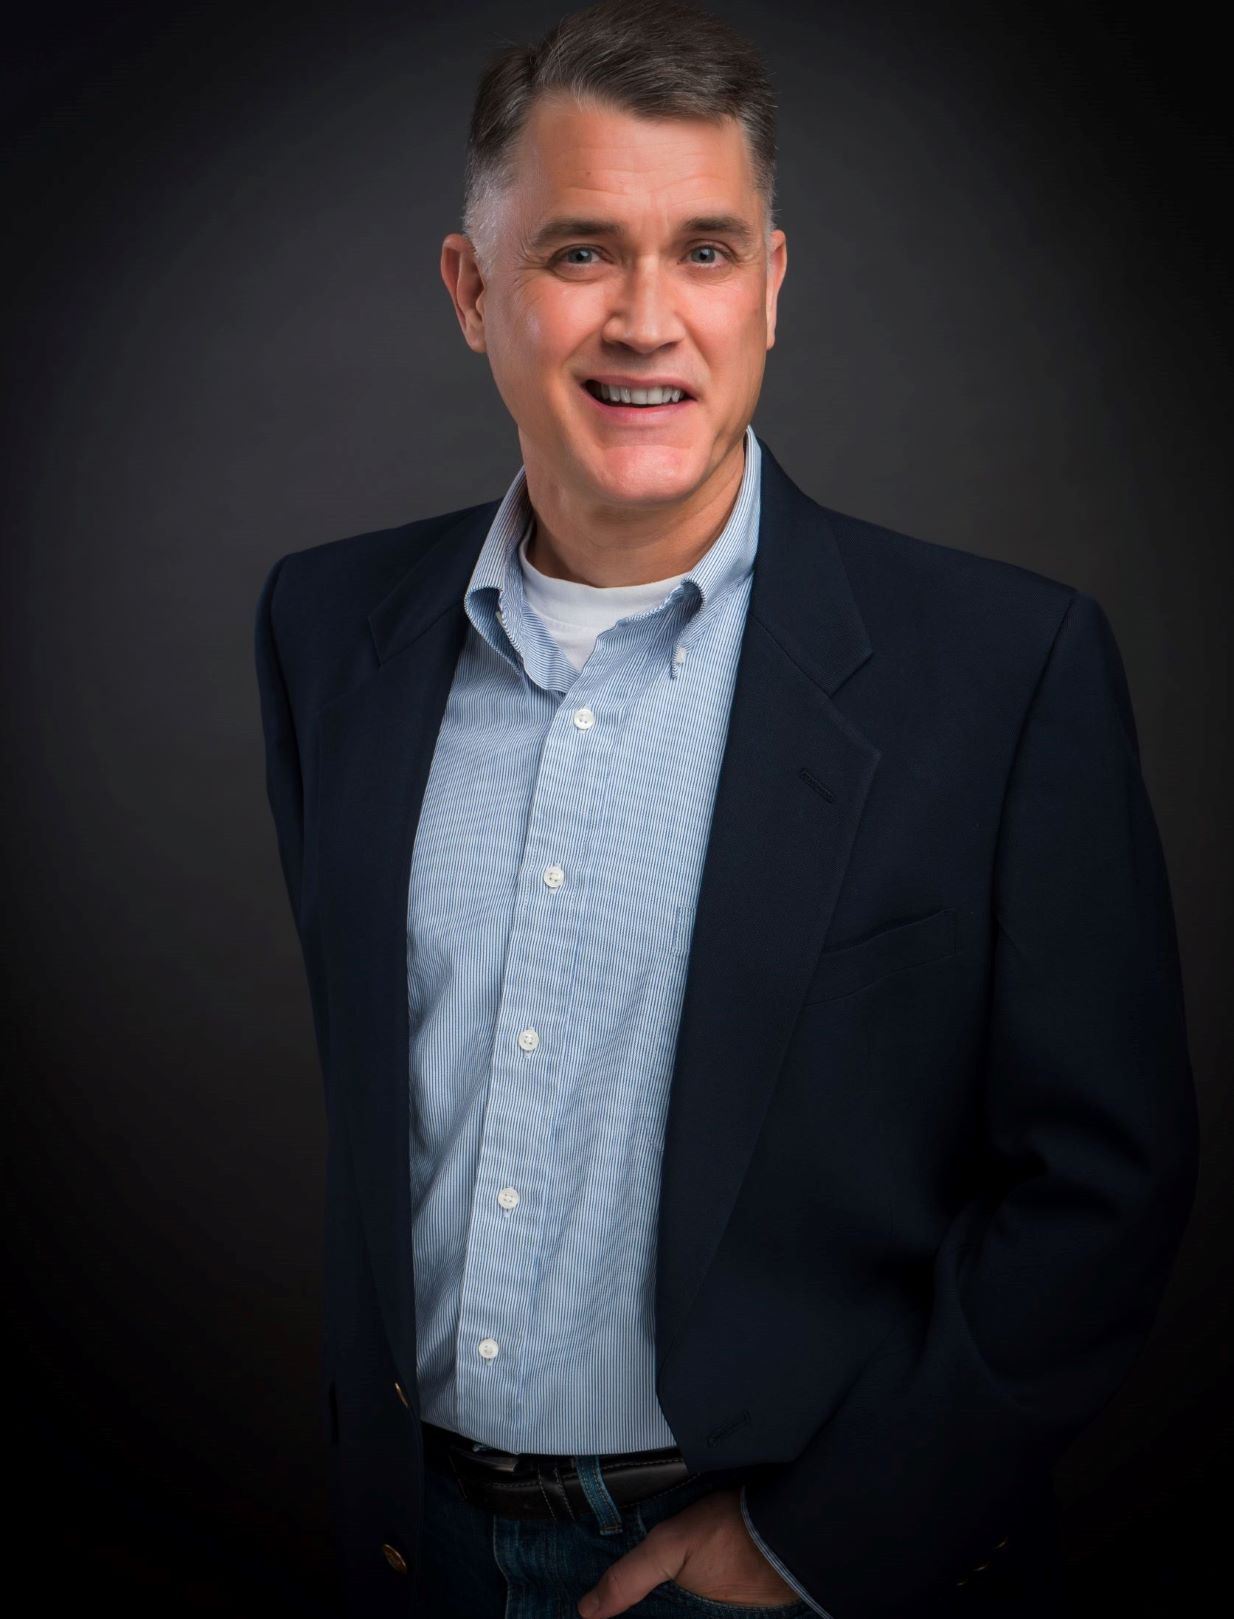
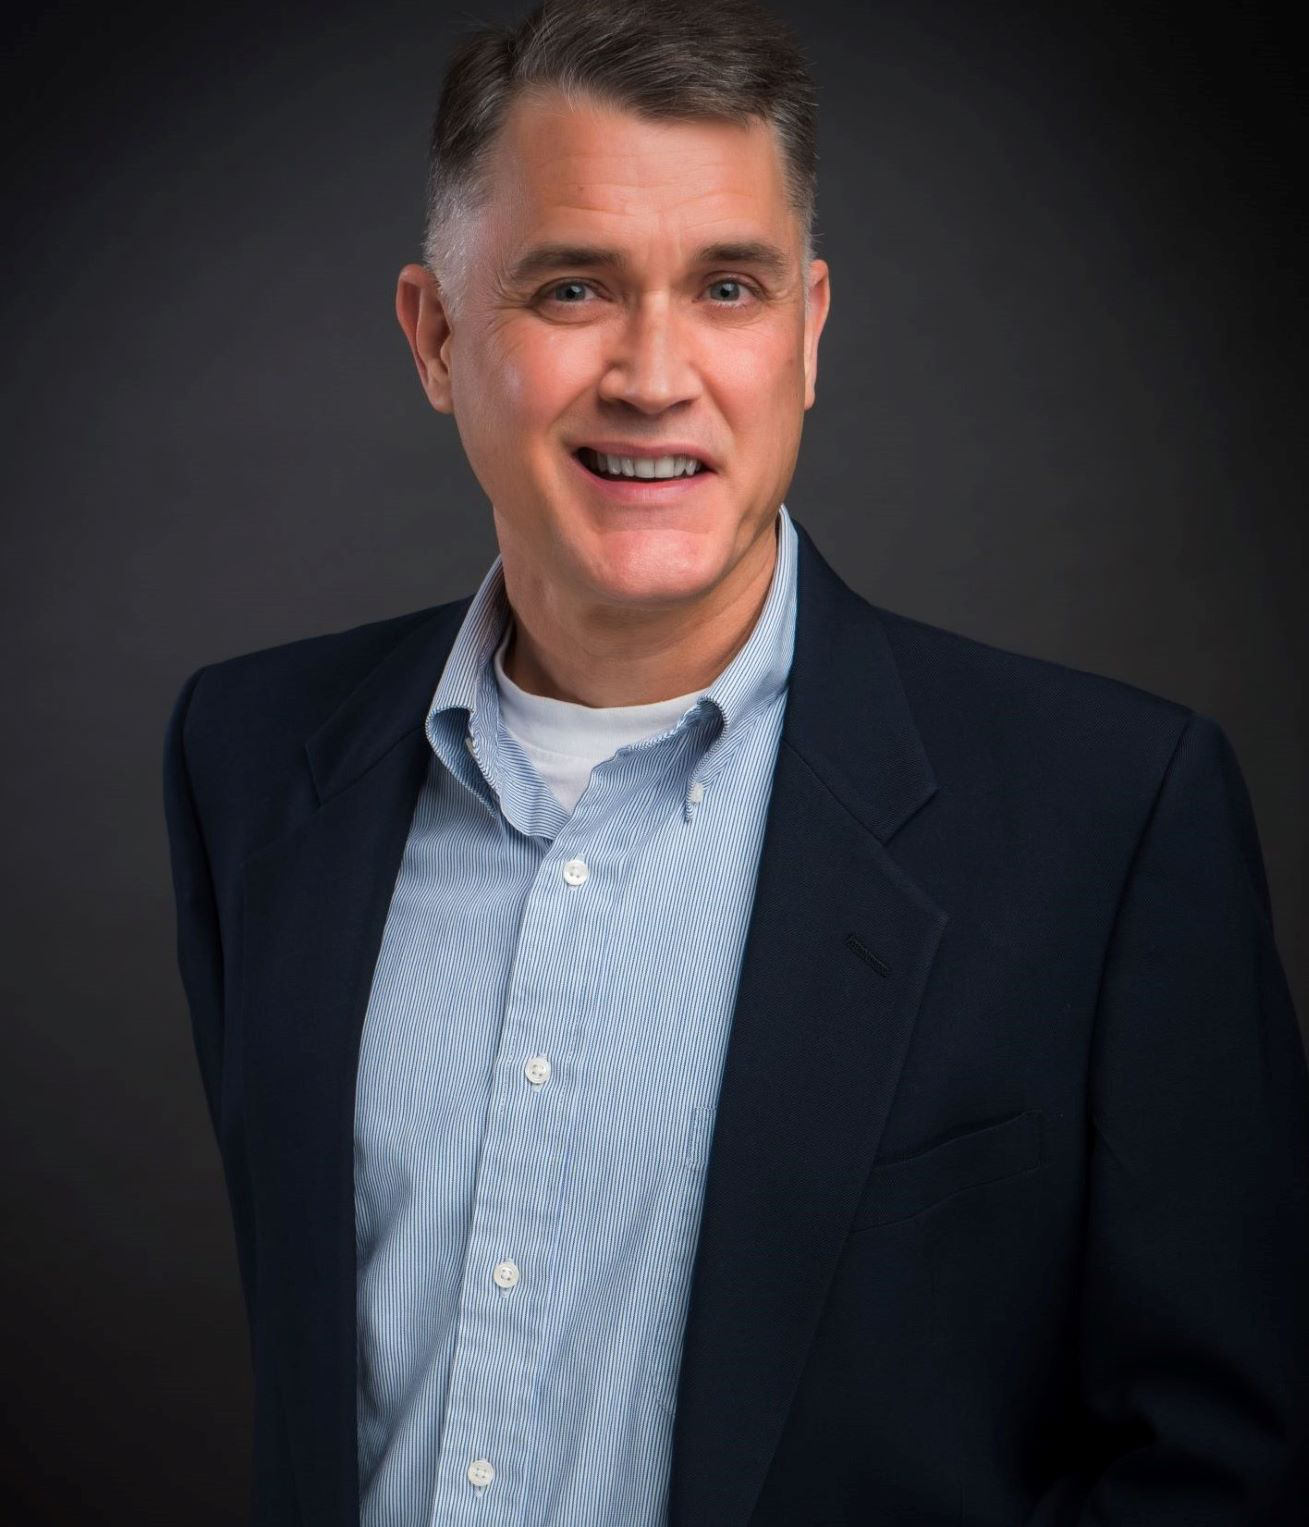
Reduce picture size

diff --git a/index.html b/index.html
@@ -28,7 +28,7 @@
 
       <img src="assets/images/pic.png" class="auth-image" alt="placeholder">
 
-      <p>I am a developer and lifelong learner with experience in project management, requirements gathering, agile development, programming, and full stack development. A graduate of Rollins College with a BA in Computer Science, my strengths are translating the business needs into technical requirements, collaborating with a development team, and delivering a functional application.</p>
+      <p>I am a developer and lifelong learner with experience in agile, project management, requirements gathering, programming, and full stack development. A graduate of Rollins College with a BA in Computer Science my strengths include translating business needs into technical requirements, collaborating with development teams, and delivering functional applications.</p>
       </p>I also have a natural aptitude for learning and productively using end-user software. In addition to being a power user of Microsoft Office - Word, Excel, Power Point, Visio, Access, Project, and VBA - I am productive with SharePoint, Trello, Rally, Jira, Sublime, and VS Code.</p> 
 
     </section>
